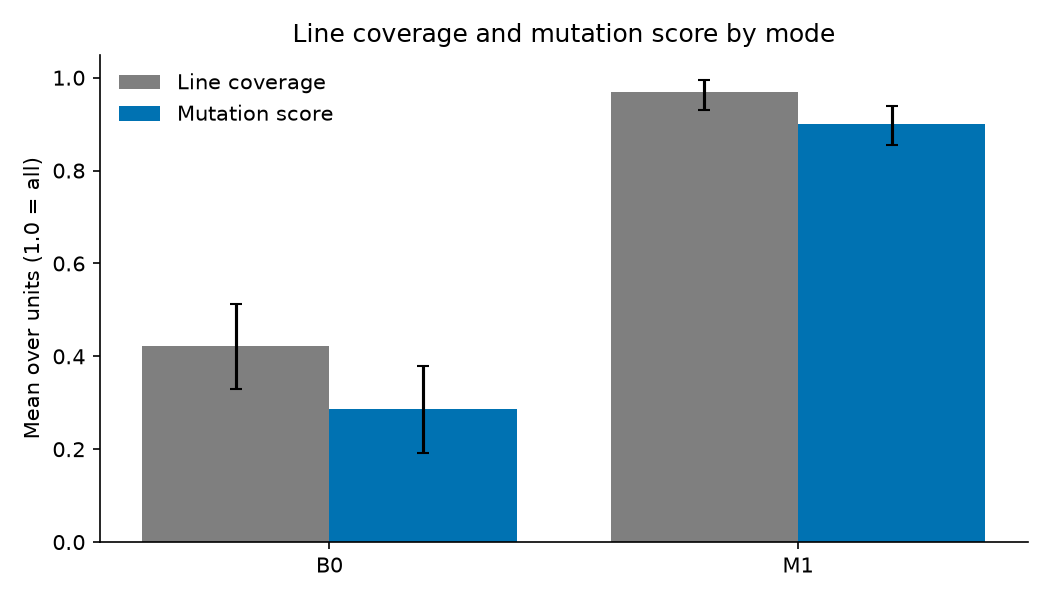
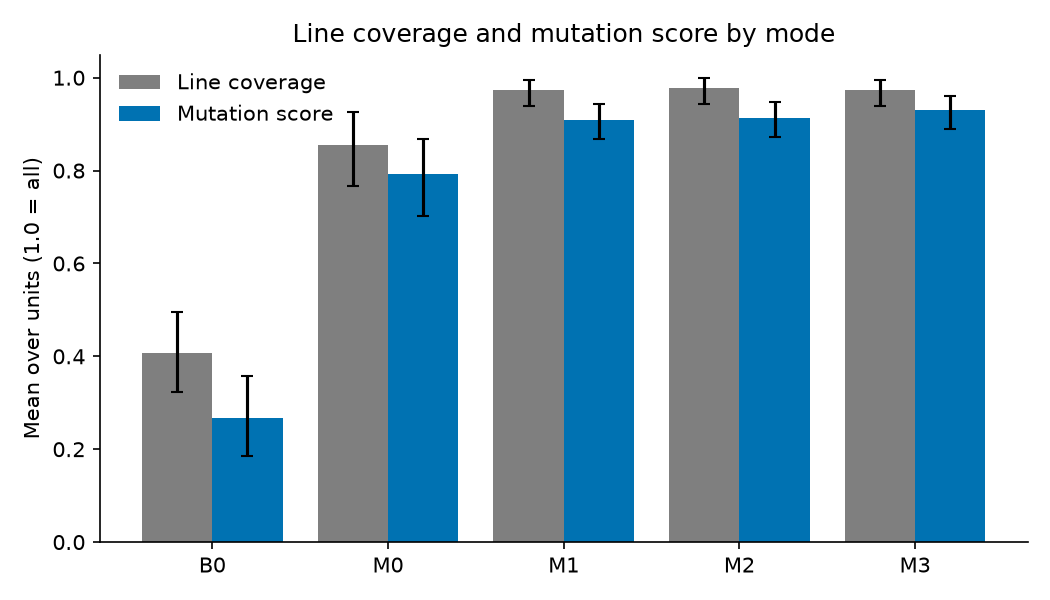
Step 6: dev results for B0 and M0-M3; flag M3 scoring bias and load noise

diff --git a/testpilot/report/evaluation.py b/testpilot/report/evaluation.py
@@ -92,6 +92,23 @@ def facts(scores: dict[str, dict]) -> str:
     return "\n".join(out)
 
 
+M3_WARNING = """
+**Do not read M3's mutation score as a fair win.** M3 is shown the mutants that survived, keeps a
+new test file only if its score on them rises, and is then scored on those same mutants. Its score
+therefore cannot fall below that of the M1 tests it started from, and any lead over M1 or M2 is
+biased in its favour, whatever the interval says. M3 also asked for more guided rounds where its
+signal had more left to improve, so compare its tokens per unit too.
+"""
+
+M3_LIMITATION = """- **M3 is scored on its own feedback.** Mutation-guided generation and scoring
+  use the same mutant sample. M3's mutation score (and so its smaller coverage gap) shows that it
+  can write tests for survivors it is told about, not that those tests catch more unseen bugs. A
+  fair comparison needs bugs M3 never saw: held-out mutants or an independent tool such as mutmut.
+  Neither has been run. M2 has the same bias on line and branch coverage, the signal it is guided
+  by.
+"""
+
+
 def build(split: str = "dev", seeds: list[int] | None = None, modes: list[str] | None = None):
     seeds = seeds or [0]
     modes = modes or ALL_MODES
@@ -113,7 +130,8 @@ def build(split: str = "dev", seeds: list[int] | None = None, modes: list[str] |
     folder = RESULTS / split
     folder.mkdir(parents=True, exist_ok=True)
     charts.coverage_vs_mutation_bars(scores, folder / "chart_coverage_vs_mutation.png")
-    gap_mode = "m3" if "m3" in scores else next(iter(scores))
+    # M1 first: its tests never saw a mutant, so its gap is not shrunk by guidance.
+    gap_mode = "m1" if "m1" in scores else next(iter(scores))
     charts.gap_scatter(scores[gap_mode], gap_mode, folder / "chart_gap_scatter.png")
     charts.per_repo_dots(scores, folder / "chart_per_repo.png")
 
@@ -132,7 +150,7 @@ units so an easier set of units cannot flatter one of them.
 
 ## Results
 
-{comparison_markdown(scores, seeds[0])}
+{comparison_markdown(scores, seeds[0])}{M3_WARNING if "m3" in scores else ""}
 ![coverage vs mutation score](chart_coverage_vs_mutation.png)
 
 ![per-unit gap](chart_gap_scatter.png)
@@ -174,12 +192,17 @@ def limitations(scores: dict[str, dict]) -> str:
     return (
         "# Limitations\n\n"
         + gaps
-        + """## Where the results are weak
-
-- **Small sample, wide intervals.** The full set is 228 functions from 12 libraries (68 dev, 160
-  test), fewer than the 300 first planned. Bootstrap intervals over about 70 units are wide, so
-  small differences between modes are not evidence. Results use the dev split unless stated;
-  prompts were tuned on dev only, and the test split should be run once at the end.
+        + "## Where the results are weak\n\n"
+        + (M3_LIMITATION if "m3" in scores else "")
+        + """- **Small sample, wide intervals.** The full set is 228 functions from 12 libraries
+  (68 dev, 160 test), fewer than the 300 first planned. Bootstrap intervals over about 70 units
+  are wide, so small differences between modes are not evidence. Results use the dev split unless
+  stated; prompts were tuned on dev only, and the test split should be run once at the end.
+- **Scores can move with machine load.** A mutant run that times out or fails for any reason
+  counts as caught, and the scorer does not record which of these happened. On a busy laptop a
+  harmless slowdown can therefore raise a score; a test of the demo example once scored one extra
+  mutant as caught and matched again on reruns (load is the likely cause, not a proven one). Where
+  M1, M2 and M3 end with identical tests, compare their per-unit scores to check a given run.
 - **Memorisation.** The libraries are popular and public, so the model may have seen their code
   and tests in training. Moving the repo's own tests out of the working copy stops copying from
   the prompt, not from memory. Scores may be inflated for the best-known libraries.

diff --git a/testpilot/report/charts.py b/testpilot/report/charts.py
@@ -71,7 +71,8 @@ def per_repo_dots(scores: dict[str, dict], path: Path) -> None:
     """Chart 3: mean mutation score per library and mode, to show where results are weak."""
     repos = sorted({r.get("repo", "?") for rows in scores.values() for r in rows.values()})
     palette = ["#0072B2", "#D55E00", "#009E73", "#CC79A7", "#E69F00", "#56B4E9"]
-    fig, ax = plt.subplots(figsize=(7, 4.5))
+    fig, ax = plt.subplots(figsize=(7.5, 6))
+    step = 0.7 / max(len(scores), 1)
     for i, (mode, rows) in enumerate(scores.items()):
         xs, ys = [], []
         for j, repo in enumerate(repos):
@@ -79,13 +80,16 @@ def per_repo_dots(scores: dict[str, dict], path: Path) -> None:
                  if r.get("repo") == repo and r.get("mutation_score") is not None]  # fmt: skip
             if v:
                 xs.append(mean(v))
-                ys.append(j)
-        ax.scatter(xs, ys, color=palette[i % len(palette)], label=mode.upper(), s=40)
+                # Offset each mode, or equal scores hide one another.
+                ys.append(j + (i - (len(scores) - 1) / 2) * step)
+        ax.scatter(xs, ys, color=palette[i % len(palette)], label=mode.upper(), s=22)
     ax.set_yticks(range(len(repos)), repos)
-    ax.set_xlim(0, 1.02)
+    for j in range(len(repos) - 1):
+        ax.axhline(j + 0.5, color=LINE, lw=0.5, alpha=0.3)
+    ax.set_xlim(-0.02, 1.02)
     ax.set_xlabel("Mean mutation score")
     ax.set_title("Mutation score by library")
-    ax.legend(frameon=False)
+    ax.legend(frameon=False, loc="center left", bbox_to_anchor=(1.01, 0.5))
     ax.spines[["top", "right"]].set_visible(False)
     fig.tight_layout()
     fig.savefig(path, dpi=150)

diff --git a/tests/test_evaluation.py b/tests/test_evaluation.py
@@ -71,6 +71,16 @@ def test_limitations_name_the_gaps_honestly(work, units):
         assert phrase in text
 
 
+@pytest.mark.parametrize("mode", ["m1", "m3"])
+def test_report_warns_that_m3_is_scored_on_its_own_feedback(work, units, mode):
+    write_scores(work, mode, 0, [fake_row(u, "toolz", 0.9, 0.5) for u in units])
+    text = evaluation.build("dev", [0], [mode])
+    limits = (evaluation.RESULTS / "dev" / "limitations.md").read_text(encoding="utf-8")
+    assert ("fair win" in text) == (mode == "m3")
+    assert ("scored on its own feedback" in limits) == (mode == "m3")
+    assert "Small sample" in limits
+
+
 def test_evaluate_stops_cleanly_when_budget_is_reached(monkeypatch):
     calls = []
 

diff --git a/results/dev/evaluation.md b/results/dev/evaluation.md
@@ -4,11 +4,11 @@ Scoring is fully automatic (tests run in the sandbox; no LLM judge). Primary met
 score**, the share of injected bugs the tests catch. Line and branch coverage are reported beside
 it, because the project's question is how far coverage overstates test quality.
 
-Modes with scored units here: B0 offline template (baseline), M1 + repair.
+Modes with scored units here: B0 offline template (baseline), M0 single LLM call, M1 + repair, M2 coverage-guided (the coverage-only comparison), M3 mutation-guided.
 Modes without data are left out, not estimated.
 
-**Units compared: 61**, the ones scored in every listed mode (scored so far per mode:
-B0 68, M1 61). Modes are compared on identical
+**Units compared: 68**, the ones scored in every listed mode (scored so far per mode:
+B0 68, M0 68, M1 68, M2 68, M3 68). Modes are compared on identical
 units so an easier set of units cannot flatter one of them.
 
 ## Results
@@ -17,8 +17,19 @@ Values are means with 95% bootstrap intervals over units.
 
 | Mode | Units | With tests | Line cov | Branch cov | Mutation score | Cov - mutation gap | Tokens/unit | Tokens/killed mutant |
 |---|---|---|---|---|---|---|---|---|
-| B0 | 61 | 59 | 0.42 [0.33, 0.51] | 0.31 [0.21, 0.41] | 0.29 [0.19, 0.38] | +0.14 | 0 | 0 |
-| M1 | 61 | 60 | 0.97 [0.93, 0.99] | 0.98 [0.96, 0.99] | 0.90 [0.86, 0.94] | +0.07 | 3025 | 304 |
+| B0 | 68 | 65 | 0.41 [0.32, 0.49] | 0.30 [0.20, 0.39] | 0.27 [0.19, 0.36] | +0.14 | 0 | 0 |
+| M0 | 68 | 60 | 0.85 [0.77, 0.93] | 0.94 [0.89, 0.98] | 0.79 [0.70, 0.87] | +0.06 | 1516 | 188 |
+| M1 | 68 | 67 | 0.97 [0.94, 0.99] | 0.98 [0.96, 0.99] | 0.91 [0.87, 0.94] | +0.06 | 3092 | 296 |
+| M2 | 68 | 67 | 0.98 [0.94, 1.00] | 0.98 [0.97, 0.99] | 0.91 [0.87, 0.95] | +0.07 | 3523 | 335 |
+| M3 | 68 | 67 | 0.97 [0.94, 0.99] | 0.98 [0.96, 0.99] | 0.93 [0.89, 0.96] | +0.04 | 4822 | 455 |
+
+M3 minus M2 on the same units (positive = mutation-guided is better): mutation score 0.02 [0.00, 0.03] (n=68), line coverage -0.00 [-0.01, 0.00] (n=68).
+
+**Do not read M3's mutation score as a fair win.** M3 is shown the mutants that survived, keeps a
+new test file only if its score on them rises, and is then scored on those same mutants. Its score
+therefore cannot fall below that of the M1 tests it started from, and any lead over M1 or M2 is
+biased in its favour, whatever the interval says. M3 also asked for more guided rounds where its
+signal had more left to improve, so compare its tokens per unit too.
 
 ![coverage vs mutation score](chart_coverage_vs_mutation.png)
 
@@ -28,20 +39,20 @@ Values are means with 95% bootstrap intervals over units.
 
 ## By library (mean mutation score)
 
-| Library | B0 | M1 |
-|---|---|---|
-| boltons | 0.29 (n=9) | 0.82 (n=9) |
-| cachetools | 0.04 (n=4) | 0.95 (n=4) |
-| humanize | 0.00 (n=1) | 1.00 (n=1) |
-| idna | 0.02 (n=4) | 0.83 (n=4) |
-| more-itertools | 0.79 (n=9) | 0.95 (n=9) |
-| packaging | 0.00 (n=2) | 0.96 (n=2) |
-| python-slugify | 0.00 (n=1) | 0.60 (n=1) |
-| semver | 0.13 (n=4) | 0.83 (n=4) |
-| sortedcontainers | 0.66 (n=2) | 0.77 (n=2) |
-| tabulate | 0.25 (n=9) | 1.00 (n=9) |
-| tomli | 0.05 (n=7) | 0.81 (n=7) |
-| toolz | 0.34 (n=9) | 0.98 (n=9) |
+| Library | B0 | M0 | M1 | M2 | M3 |
+|---|---|---|---|---|---|
+| boltons | 0.29 (n=9) | 0.77 (n=9) | 0.82 (n=9) | 0.82 (n=9) | 0.86 (n=9) |
+| cachetools | 0.04 (n=4) | 0.95 (n=4) | 0.95 (n=4) | 0.95 (n=4) | 0.95 (n=4) |
+| humanize | 0.00 (n=1) | 0.00 (n=1) | 1.00 (n=1) | 1.00 (n=1) | 1.00 (n=1) |
+| idna | 0.02 (n=4) | 0.62 (n=4) | 0.83 (n=4) | 0.84 (n=4) | 0.83 (n=4) |
+| more-itertools | 0.79 (n=9) | 0.96 (n=8) | 0.95 (n=9) | 0.95 (n=9) | 0.95 (n=9) |
+| packaging | 0.08 (n=9) | 0.62 (n=8) | 0.98 (n=9) | 0.98 (n=9) | 0.98 (n=9) |
+| python-slugify | 0.00 (n=1) | 0.50 (n=1) | 0.60 (n=1) | 0.60 (n=1) | 0.60 (n=1) |
+| semver | 0.13 (n=4) | 0.83 (n=4) | 0.83 (n=4) | 0.83 (n=4) | 0.91 (n=4) |
+| sortedcontainers | 0.66 (n=2) | 0.77 (n=2) | 0.77 (n=2) | 0.77 (n=2) | 0.87 (n=2) |
+| tabulate | 0.25 (n=9) | 1.00 (n=9) | 1.00 (n=9) | 1.00 (n=9) | 1.00 (n=9) |
+| tomli | 0.05 (n=7) | 0.48 (n=7) | 0.81 (n=7) | 0.83 (n=7) | 0.85 (n=7) |
+| toolz | 0.34 (n=9) | 0.98 (n=9) | 0.98 (n=9) | 0.98 (n=9) | 1.00 (n=9) |
 
 ## Variance over seeds
 
@@ -49,8 +60,11 @@ Not run yet: no mode has more than one seed scored. LLM modes need an API key; s
 
 ## Counts
 
-- B0: 61 units scored, 2 with no passing test, 680 mutants of which 0 flagged likely-equivalent.
-- M1: 61 units scored, 1 with no passing test, 692 mutants of which 0 flagged likely-equivalent.
+- B0: 68 units scored, 3 with no passing test, 779 mutants of which 0 flagged likely-equivalent.
+- M0: 68 units scored, 8 with no passing test, 630 mutants of which 0 flagged likely-equivalent.
+- M1: 68 units scored, 1 with no passing test, 798 mutants of which 0 flagged likely-equivalent.
+- M2: 68 units scored, 1 with no passing test, 798 mutants of which 0 flagged likely-equivalent.
+- M3: 68 units scored, 1 with no passing test, 798 mutants of which 0 flagged likely-equivalent.
 
 ## How to reproduce
 

diff --git a/LEARNING.md b/LEARNING.md
@@ -120,3 +120,13 @@ How to check: `pytest tests/test_subset.py tests/test_evaluation.py`.
 - **How it was found.** The new LLM calls did not add up: more calls were made than the extra guided rounds explain. Lesson: check that a cache you rely on was actually hit. Reading: any text on controlled experiments and confounding variables.
 
 How to check: `pytest tests/test_shared_base.py`.
+
+## Step 6: dev results, and why M3's lead does not count yet
+
+- **Numbers (68 dev functions, one seed).** Mutation score: template baseline 0.27, single call 0.79, with repair (M1) 0.91, coverage-guided (M2) 0.91, mutation-guided (M3) 0.93. The big gains come from using an LLM at all and then from repair. The guided rounds change little, partly because 41 of 68 functions already score 1.0 after M1, so there is no room to improve.
+- **The catch with M3.** M3 is told which mutants survived, keeps a new test file only if it kills more of them, and is then graded on the same mutants. That is like marking a student on the questions they were given to practise on. M3 cannot score below M1 by design, so its 0.02 lead over M2 does not show that it writes better tests. A confidence interval does not help: it measures noise, not bias.
+- **What would be fair.** Grade on bugs M3 never saw. One way is to split each function's mutants into a set M3 may see and a set used only for grading; many functions have few mutants (median 9), so that split would be coarse. Another is to grade with an independent tool such as mutmut. Neither has been run.
+- **Timing noise check.** A mutant that runs too long counts as caught, so a busy laptop could change scores. M2 and M3 often end with exactly M1's tests, and each mode is scored separately. All those repeat scorings matched exactly, so no noise showed up in this run.
+- **Chart fixes.** The per-function chart now shows M1, whose tests never saw a mutant. In the library chart, equal scores used to hide one another, so each mode now has its own height.
+- **Why it matters.** When a method is graded with the same signal it optimises, the result looks like a win whether or not it is one. Reading: Goodhart's law, and train/test splits.
+- **But load noise is possible.** Later, one run of the demo test under load scored 6 of 7 mutants as caught instead of the saved 5. Three reruns at lower load gave 5 every time. The likely cause is that a slow or failed run counts as a catch; the scorer does not record why a run failed, so this is not proven. Recording timeouts separately, and retrying them once, would settle it.

diff --git a/results/dev/limitations.md b/results/dev/limitations.md
@@ -1,13 +1,22 @@
 # Limitations
 
-**Modes without results yet:** M0 single LLM call; M2 coverage-guided (the coverage-only comparison); M3 mutation-guided. Any claim about them would be a guess.
-
 ## Where the results are weak
 
-- **Small sample, wide intervals.** The full set is 228 functions from 12 libraries (68 dev, 160
-  test), fewer than the 300 first planned. Bootstrap intervals over about 70 units are wide, so
-  small differences between modes are not evidence. Results use the dev split unless stated;
-  prompts were tuned on dev only, and the test split should be run once at the end.
+- **M3 is scored on its own feedback.** Mutation-guided generation and scoring
+  use the same mutant sample. M3's mutation score (and so its smaller coverage gap) shows that it
+  can write tests for survivors it is told about, not that those tests catch more unseen bugs. A
+  fair comparison needs bugs M3 never saw: held-out mutants or an independent tool such as mutmut.
+  Neither has been run. M2 has the same bias on line and branch coverage, the signal it is guided
+  by.
+- **Small sample, wide intervals.** The full set is 228 functions from 12 libraries
+  (68 dev, 160 test), fewer than the 300 first planned. Bootstrap intervals over about 70 units
+  are wide, so small differences between modes are not evidence. Results use the dev split unless
+  stated; prompts were tuned on dev only, and the test split should be run once at the end.
+- **Scores can move with machine load.** A mutant run that times out or fails for any reason
+  counts as caught, and the scorer does not record which of these happened. On a busy laptop a
+  harmless slowdown can therefore raise a score; a test of the demo example once scored one extra
+  mutant as caught and matched again on reruns (load is the likely cause, not a proven one). Where
+  M1, M2 and M3 end with identical tests, compare their per-unit scores to check a given run.
 - **Memorisation.** The libraries are popular and public, so the model may have seen their code
   and tests in training. Moving the repo's own tests out of the working copy stops copying from
   the prompt, not from memory. Scores may be inflated for the best-known libraries.
